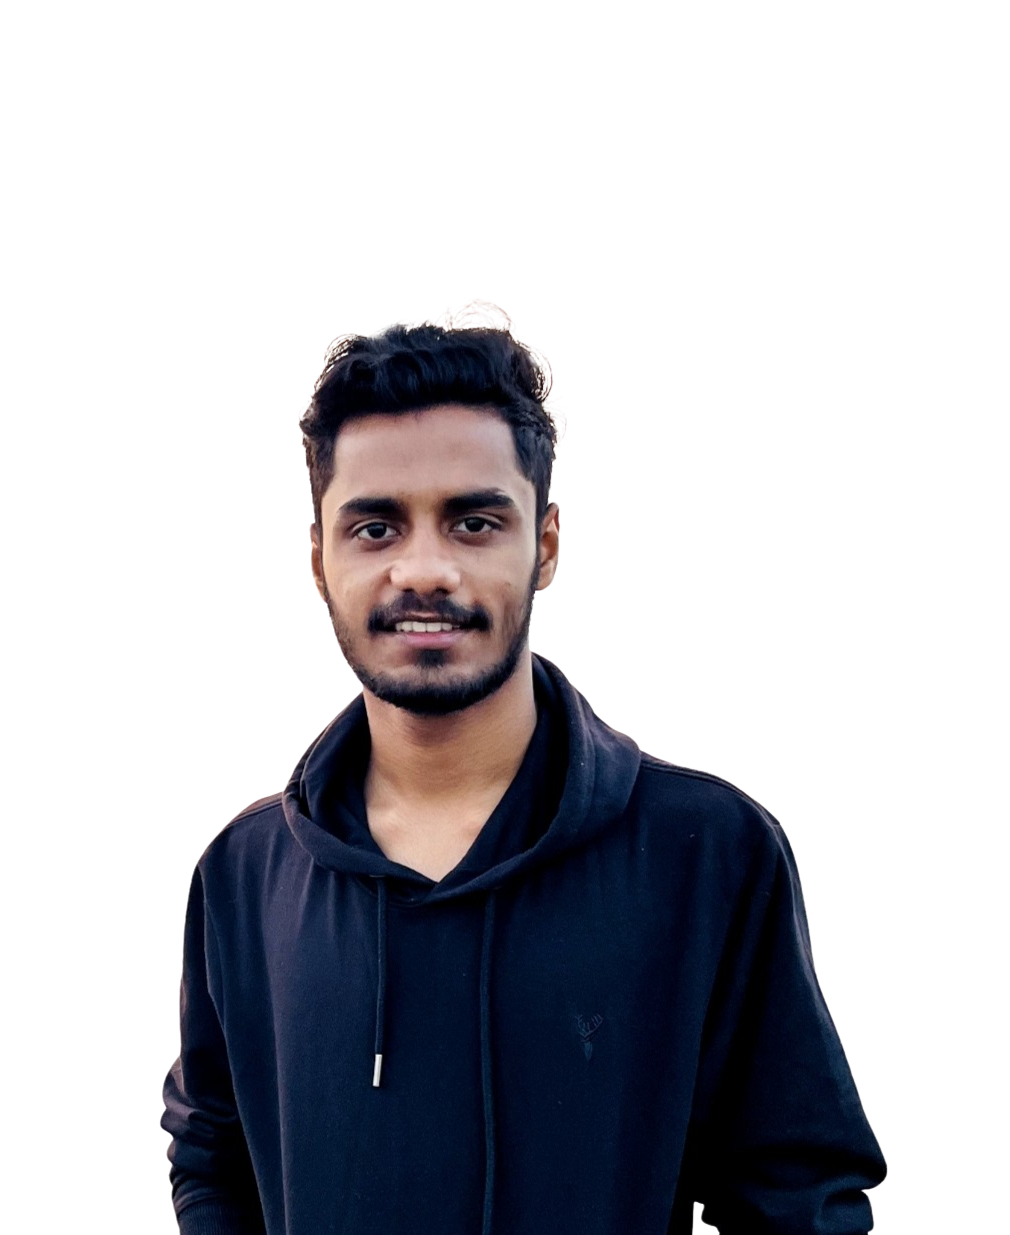
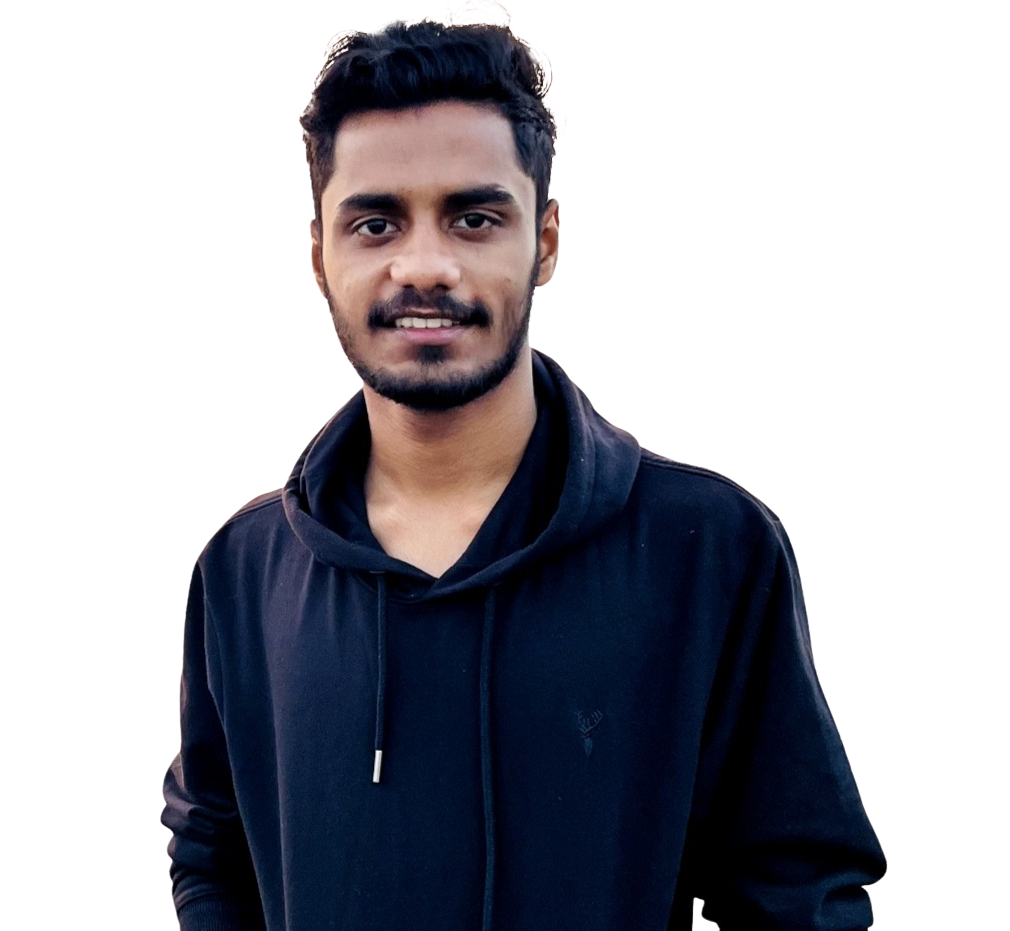
contact page done

diff --git a/index.css b/index.css
@@ -48,7 +48,8 @@ nav ul li a:hover{
     display: flex;
     justify-content: space-around;
     margin:20px;
-    padding-top: 40px;
+    padding-top: 20px;
+    /* overflow: hidden; */
 }
 .leftsection{
     /* background-color: red; */
@@ -87,10 +88,10 @@ button{
 }
 .rightsection img{
     position: relative;
-    top: -245px;
-    left: 117px;
-    height: 37rem;
-    width: 32rem;
+    top: -100px;
+    left: 135px;
+    height: 25rem;
+    width: 28rem;
 
 }
 span{
@@ -99,7 +100,7 @@ span{
 main hr{
     width: 32rem;
     position: relative;
-    top: -248px;
+    top: -105px;
     left: 118px;
 
 }
@@ -177,4 +178,24 @@ div .skill{
     font-size: 1.03rem;
     color: rgb(168, 168, 170);
     /* background-color: #333; */
+}
+main .csection{
+    display: flex;
+    justify-content: space-around;
+    margin: 20px;
+    padding-top: 40px;
+}
+.contact{
+    /* background-color: red; */
+    /* height:20rem;
+    width: 44rem; */
+    font-size: 2rem;
+    position: relative;
+    top:  15vh;
+    /* border: 2px solid;
+    padding: 20px 20px; */
+    /* font-family:Verdana, Geneva, Tahoma, sans-serif; */
+}
+.contact span{
+    font-weight: 100;
 }

diff --git a/contact.html b/contact.html
@@ -25,8 +25,14 @@
         </nav>
     </header>
     <main>
-        <section class="firstsection">
-           <p>contact</p>
+        <section class="csection">
+           <div class="contact">
+                <h1>Contact Me</h1> 
+                <br>
+                <p> <span>Gmail:</span> manishkumar.110104@gmail.com</p>
+                <p><span>Linkdin:</span><a href="https://www.linkedin.com/in/manish-kumar-madishetti-1934b924b">https://www.linkedin.com/in/manish-kumar-madishetti-1934b924b</a></p>
+                <p><span>Github:</span><a href="https://github.com/manishkumar1101">https://github.com/manishkumar1101</a></p>
+           </div>
         </section>
 </body>
 

diff --git a/index.html b/index.html
@@ -18,8 +18,8 @@
                 <ul>
                     <li><a href="index.html">HOME</a></li>
                     <li><a href="about.html">ABOUT</a></li>
-                    <li><a href="#">PROJECTS</a></li>
-                    <li><a href="#">CONTACT</a></li>
+                    <li><a href="projects.html">PROJECTS</a></li>
+                    <li><a href="contact.html">CONTACT</a></li>
                 </ul>
             </div>
         </nav>
